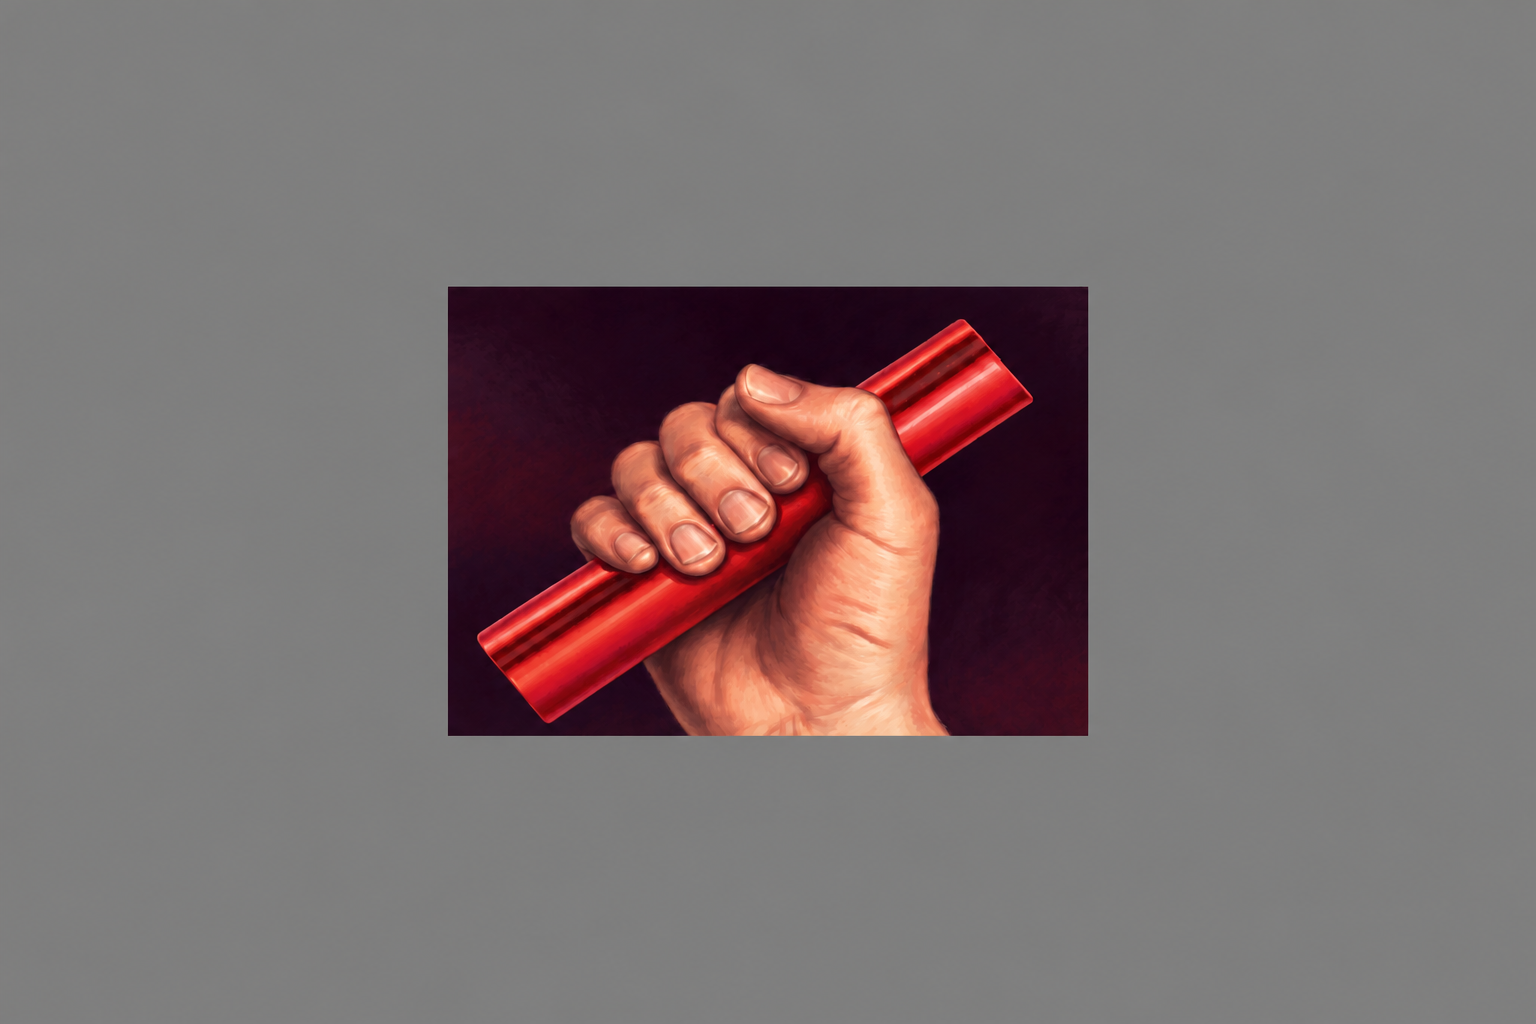
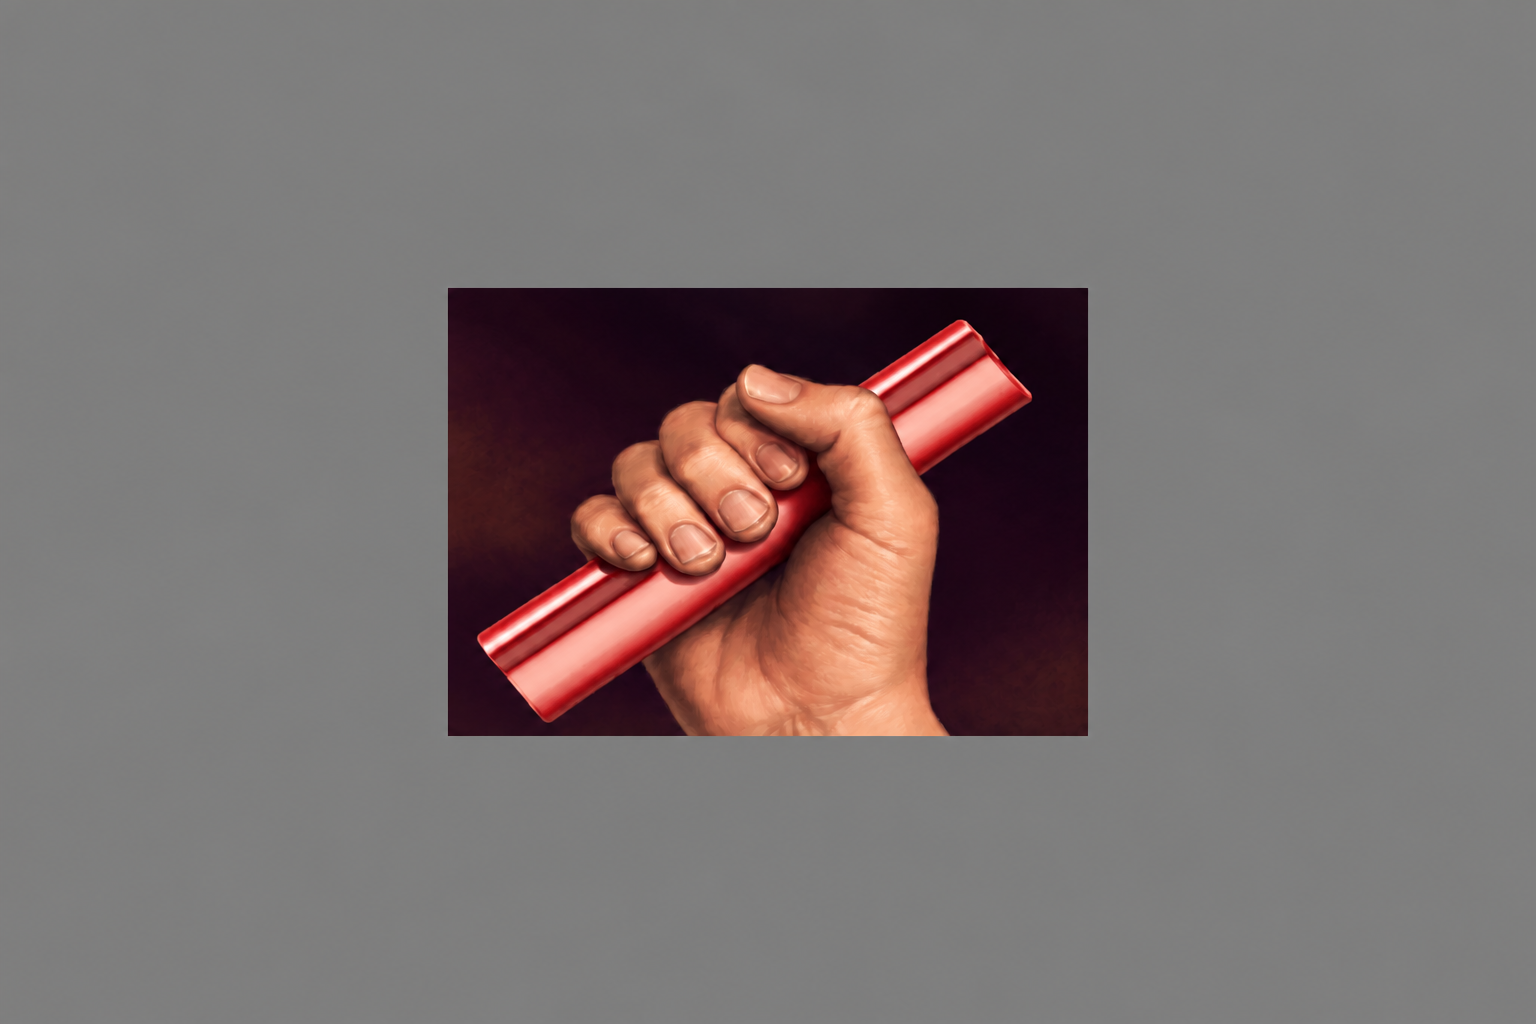
GPT: rom072, rom077, obj557_01, rom090, obj884_02, obj884_03

Changed region(s): [[0.3125, 0.3125, 0.6875, 0.7188]]

diff --git a/jobber/obj884_03/notat.md b/jobber/obj884_03/notat.md
@@ -3,13 +3,17 @@
 Levert for Claudes kontroll.
 
 - Verktøy: ChatGPT Images, innebygd bildeverktøy i Codex. Modellnavn og versjon vises ikke.
-- Dato: 2026-10-07 11:15 CEST.
-- Forsøk: 2. Valgt forsøk: 2.
+- Dato: 2026-10-07 12:37 CEST.
+- Forsøk: 3. Valgt forsøk: 3.
 - Prompt: prompt.txt brukt ordrett i alle forsøk.
 - Bilde 1: referanse.png. Bilde 2 i valgt forsøk: jobber/obj884_01/resultat.png.
 - Format: PNG, 1536 x 1024. Originalfilen fra bildeverktøyet er kopiert direkte.
 
-Det andre forsøket beholdt det mørke sporet langs staven; første forsøk gjorde staven glatt. Tilstand 01 ble brukt som bilde to. Hånden har fire bøyde fingre og tommelen. Farge og refleksjoner er sterkere enn originalens lyse flate. Kontroller tilstandsforskjellen og lik geometri mellom alle tre tilstandene.
+Nytt forsøk etter retur. Claudes tidligere måling var opptil 1.9 originalpiksler i lokal forskyvning.
+
+Tilstand 01 ble laget først. Den nye obj884_01/resultat.png er brukt som bilde to for å følge hud og penselarbeid. Hånd og stav følger hovedformene visuelt. Hudfolder, stavspor, blanke overflater og bakgrunnen er tolket friere. Kontroller samsvar mellom alle tre tilstandene og rom050.
+
+Returens alternative prompt er ikke brukt, siden Tom har bedt om prompt.txt ordrett.
 
 Den grå kanten har svak gradering og er ikke ensfarget #808080. Den er levert som generert.
 
@@ -17,5 +21,5 @@ Visuell sammenligning er utført. Claudes automatiske kontroll, sammensying og k
 
 Referanse SHA256: b87d5a4012287ea5012aa54b2181a560dd1abba0ae19f4995a9f536c9ba984b9
 Prompt SHA256: f2deee770be80df7d0c9c55e4ea70002247b8151b8e91d8dd21b6d1cfff704b9
-Stilanker SHA256: d33088c02638dba4d6f1f1eccc606f029bffd1831d0cefe1556796f5ce09529e
-Resultat SHA256: f494585283ab0b8b92d8908359720be511be36560f053388400dec17cbf7003f
+Stilanker SHA256: 5103e6e94b7b61f84be22a788d42dc6ebf0747498ea8e76a6f8faa7e173e4501
+Resultat SHA256: 0157919536460066748329cfcc457ad36d9189596e0a278cc1aec8d1160ec755

diff --git a/jobber/obj884_02/notat.md b/jobber/obj884_02/notat.md
@@ -3,13 +3,17 @@
 Levert for Claudes kontroll.
 
 - Verktøy: ChatGPT Images, innebygd bildeverktøy i Codex. Modellnavn og versjon vises ikke.
-- Dato: 2026-10-07 11:15 CEST.
-- Forsøk: 1. Valgt forsøk: 1.
+- Dato: 2026-10-07 12:37 CEST.
+- Forsøk: 2. Valgt forsøk: 2.
 - Prompt: prompt.txt brukt ordrett i alle forsøk.
 - Bilde 1: referanse.png. Bilde 2 i valgt forsøk: jobber/obj884_01/resultat.png.
 - Format: PNG, 1536 x 1024. Originalfilen fra bildeverktøyet er kopiert direkte.
 
-Fire bøyde fingre og tommelen beholder grepet om staven. Tilstand 01 ble brukt som bilde to. Det mørke sporet langs staven er bevart, men staven er rødere og blankere enn den lyse flaten i referansen. Kontroller tilstandsforskjellen og fargelåsen samt samsvar mellom håndkonturene i de tre tilstandene.
+Nytt forsøk etter retur. Claudes tidligere måling var opptil 1.9 originalpiksler i lokal forskyvning.
+
+Tilstand 01 ble laget først. Den nye obj884_01/resultat.png er brukt som bilde to for å følge hud og penselarbeid. Hånd og stav følger hovedformene visuelt. Hudfolder, stavspor og bakgrunnen er tolket friere. Kontroller samsvar mellom alle tre tilstandene og rom050.
+
+Returens alternative prompt er ikke brukt, siden Tom har bedt om prompt.txt ordrett.
 
 Den grå kanten har svak gradering og er ikke ensfarget #808080. Den er levert som generert.
 
@@ -17,5 +21,5 @@ Visuell sammenligning er utført. Claudes automatiske kontroll, sammensying og k
 
 Referanse SHA256: 1d959291136f346589c6079e66581e9b57033ef663900c1102e4b78d6f9f548d
 Prompt SHA256: f2deee770be80df7d0c9c55e4ea70002247b8151b8e91d8dd21b6d1cfff704b9
-Stilanker SHA256: d33088c02638dba4d6f1f1eccc606f029bffd1831d0cefe1556796f5ce09529e
-Resultat SHA256: e18e4da1ef5a7192ff3d9de8176a60a42daac34dc9236c19da5a98e76779f71b
+Stilanker SHA256: 5103e6e94b7b61f84be22a788d42dc6ebf0747498ea8e76a6f8faa7e173e4501
+Resultat SHA256: b077b4a8a67560e951580868d44d4aad8c239216664b630502194b8d9f916542

diff --git a/jobber/rom090/notat.md b/jobber/rom090/notat.md
@@ -3,13 +3,17 @@
 Levert for Claudes kontroll.
 
 - Verktøy: ChatGPT Images, innebygd bildeverktøy i Codex. Modellnavn og versjon vises ikke.
-- Dato: 2026-10-07 12:03 CEST.
-- Forsøk: 2. Valgt forsøk: 2.
+- Dato: 2026-10-07 12:37 CEST.
+- Forsøk: 3. Valgt forsøk: 3.
 - Prompt: prompt.txt brukt ordrett i alle forsøk.
 - Bilde 1: referanse.png. Bilde 2 i valgt forsøk: stil/room009_core.png.
 - Format: PNG, 1536 x 1024. Originalfilen fra bildeverktøyet er kopiert direkte.
 
-Valgt etter to forsøk. Trekanten, krysset og de større linjene følger hovedformene visuelt. Bildet er fortsatt lysere enn originalen, og steinteksturen er tolket friere. Kontroller skyggenivået og hver kant i tegnet.
+Nytt forsøk etter retur. Forrige kandidat var forskjøvet omtrent +0.2, -0.9 originalpiksler ifølge Claude.
+
+Trekantens hovedform og krysslinjene følger referansen visuelt. Steinflaten er fortsatt lysere og har mer tolket tekstur enn originalen. Kontroller spissen, de tre sidene, krysslinjene og plasseringen før bruk. Det er ikke dokumentert at forskyvningen er løst.
+
+Returens alternative prompt er ikke brukt, siden Tom har bedt om prompt.txt ordrett.
 
 Den grå kanten har svak gradering og er ikke ensfarget #808080. Den er levert som generert.
 
@@ -18,4 +22,4 @@ Visuell sammenligning er utført. Claudes automatiske kontroll, sammensying og k
 Referanse SHA256: 40f609ea05e0370e5257ffead9c66690bd96aa6053b8c8fedf5cb80c2f1069b6
 Prompt SHA256: c4d6f198738b9bccb0c8ace65a2fe958f950713f2e7922f6b07f2c707786ef36
 Stilanker SHA256: fd37d46069b111b1f5c85bdfde9f429dbc5f8a7f8333efc9d24ab466fc6c2ba4
-Resultat SHA256: 7a3a6291c3b58d8dbb022b943d275ee71852016fc71e9df93495516e3c117043
+Resultat SHA256: e7cf4fdd4c0b3a331a0c1e098e0b9f02691b92cc8927cd23a5565dbdab8ab13c

diff --git a/jobber/obj557_01/notat.md b/jobber/obj557_01/notat.md
@@ -3,13 +3,17 @@
 Levert for Claudes kontroll.
 
 - Verktøy: ChatGPT Images, innebygd bildeverktøy i Codex. Modellnavn og versjon vises ikke.
-- Dato: 2026-10-07 11:56 CEST.
-- Forsøk: 1. Valgt forsøk: 1.
+- Dato: 2026-10-07 12:37 CEST.
+- Forsøk: 2. Valgt forsøk: 2.
 - Prompt: prompt.txt brukt ordrett i alle forsøk.
 - Bilde 1: referanse.png. Bilde 2 i valgt forsøk: stil/room009_core.png.
 - Format: PNG, 1536 x 1024. Originalfilen fra bildeverktøyet er kopiert direkte.
 
-Oval kapsel, bue og de store snittlinjene følger hovedformene i referansen visuelt. De tynne krysslinjene, refleksene og bakgrunnsteksturen er tolket friere. Kontroller alle linjene og plasseringen mot rom081.
+Nytt forsøk etter retur. Claudes tidligere måling var opptil 1.1 originalpiksler i lokal forskyvning.
+
+Den blå ovalen, buen over og det mørke innsnittet på høyre side følger hovedformene visuelt. De mørke krysslinjene og små detaljer i bakgrunnen er tolket friere. Kontroller alle linjekryss og innsnittet mot originalen og rom082.
+
+Returens alternative prompt er ikke brukt, siden Tom har bedt om prompt.txt ordrett.
 
 Den grå kanten har svak gradering og er ikke ensfarget #808080. Den er levert som generert.
 
@@ -18,4 +22,4 @@ Visuell sammenligning er utført. Claudes automatiske kontroll, sammensying og k
 Referanse SHA256: af5a4b70fca7fb83d2d370ec8eb03a39c087faed0894655bb2926602d6450bfd
 Prompt SHA256: dcb9470c07fd518bc82d967a852efa2433b05df096fd21358f634ca983ad741d
 Stilanker SHA256: fd37d46069b111b1f5c85bdfde9f429dbc5f8a7f8333efc9d24ab466fc6c2ba4
-Resultat SHA256: 215e8bca3f828138706d9bd6b2beebba2641236d4feea0feeda77cdeb8d7f53a
+Resultat SHA256: cbbc3583ddb055ac71024cf29d3a481fbf3d37a0dd197351e6f218d790953768

diff --git a/jobber/rom072/notat.md b/jobber/rom072/notat.md
@@ -3,13 +3,15 @@
 Levert for Claudes kontroll.
 
 - Verktøy: ChatGPT Images, innebygd bildeverktøy i Codex. Modellnavn og versjon vises ikke.
-- Dato: 2026-10-07 11:36 CEST.
-- Forsøk: 2. Valgt forsøk: 2.
+- Dato: 2026-10-07 12:37 CEST.
+- Forsøk: 3. Valgt forsøk: 3.
 - Prompt: prompt.txt brukt ordrett i alle forsøk.
 - Bilde 1: referanse.png. Bilde 2 i valgt forsøk: stil/room009_core.png.
 - Format: PNG, 1536 x 1024. Originalfilen fra bildeverktøyet er kopiert direkte.
 
-To forsøk er sammenlignet. Valgt forsøk har roligere overflate enn det første, men fremdeles tydeligere sprekker og struktur enn den flate referansen. Diskret veggtekstur er ikke sikkert oppfylt.
+Nytt forsøk etter retur. Claudes måling av forrige kandidat var opptil 1.1 originalpiksler i lokal forskyvning.
+
+De brede lilla og røde feltene følger referansen visuelt. Nye fine sprekker og steinteksturer er tolket friere. Bildet trenger ny kontroll av fargefelt og konturer. Returens alternative prompt er ikke brukt, siden Tom har bedt om prompt.txt ordrett.
 
 Den grå kanten har svak gradering og er ikke ensfarget #808080. Den er levert som generert.
 
@@ -18,4 +20,4 @@ Visuell sammenligning er utført. Claudes automatiske kontroll, sammensying og k
 Referanse SHA256: a1a940bf3b36daf38bb76551e29c28b442eedc9e60a07af828bdea1c245fdb55
 Prompt SHA256: 46c37feb7b2ddbb1a97b484442b5ffb4142adf49a4b624386733e99ceeaedb39
 Stilanker SHA256: fd37d46069b111b1f5c85bdfde9f429dbc5f8a7f8333efc9d24ab466fc6c2ba4
-Resultat SHA256: ddfd319b76637ec5f9923300f0964a60d24214f27952e107be5aee03724826ca
+Resultat SHA256: d79418539b69a26d17ab05a9ef385dd59372977518d8d25e77891d46315eb00f

diff --git a/jobber/rom077/notat.md b/jobber/rom077/notat.md
@@ -3,13 +3,17 @@
 Levert for Claudes kontroll.
 
 - Verktøy: ChatGPT Images, innebygd bildeverktøy i Codex. Modellnavn og versjon vises ikke.
-- Dato: 2026-10-07 11:36 CEST.
-- Forsøk: 2. Valgt forsøk: 2.
+- Dato: 2026-10-07 12:37 CEST.
+- Forsøk: 3. Valgt forsøk: 2.
 - Prompt: prompt.txt brukt ordrett i alle forsøk.
 - Bilde 1: referanse.png. Bilde 2 i valgt forsøk: stil/room022_beach.png.
 - Format: PNG, 1536 x 1024. Originalfilen fra bildeverktøyet er kopiert direkte.
 
-Fjellspirenes hovedplassering og den sentrale øya er sammenlignet i to forsøk. Små utstikkere er tydeligere og kan avvike fra referansen, særlig langs spirene til venstre og høyre. Himmel og sjø har mer synlig malerisk tekstur. Kontroller spirenes antall og ytterkontur.
+Forrige kandidat er beholdt etter et nytt returforsøk. Claudes tidligere måling var opptil 1.3 originalpiksler i lokal forskyvning.
+
+Forsøk 3 laget en lysere himmel og en tydeligere horisont høyere i bildet. Det følger referansens lys og oppbygning dårligere, så resultat.png er ikke erstattet. Også den beholdte kandidaten har mer sky- og vanndetaljer og små ekstra klippekonturer enn referansen. Returen er fortsatt ikke løst.
+
+Returens alternative prompt er ikke brukt, siden Tom har bedt om prompt.txt ordrett.
 
 Den grå kanten har svak gradering og er ikke ensfarget #808080. Den er levert som generert.
 
